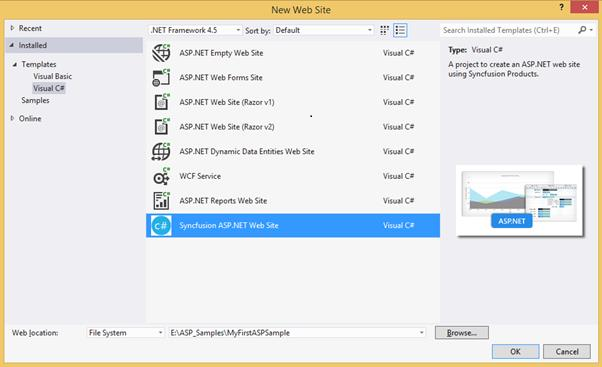
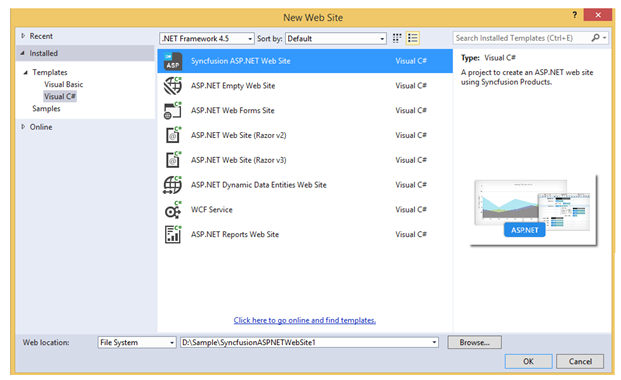
Getting Started document has been updated in ASP.NET framework

diff --git a/aspnet/Getting-Started.md b/aspnet/Getting-Started.md
@@ -18,17 +18,17 @@ This section describes how to configure the Syncfusion ASP.NET components into t
 The procedure that are followed in manual integration process is entirely automated, when we create an application using Syncfusion Project template.
 
 ## Using Syncfusion Project Template
-For creating new ASP.NET Website, you can use the Syncfusion’s Visual Studio project templates. Here, you will see how to add the `DatePicker` control into the ASP.NET Website selecting from the “New Web Site” pop-up,
 
-* Start the Visual Studio and select File -> New -> Website. You can now see the built-in `Syncfusion ASP.NET Website` template in the "New Web Site" pop-up as shown below
+Syncfusion provides the Visual Studio Project Template support for ASP.NET (EJWEB) components, which will automatically include all the Syncfusion ASP.NET control’s client and server side dependencies are preconfigured and copied to it appropriate folders. Below are listed the steps for you to follow when creating an ASP.NET web site.
+
+Step 1 Select File > New > Web Site. <BR>
+Step 2 Choose Templates > Visual C# > Syncfusion ASP.NET Web Site <BR>
+Step 3 Set a name and location for the project.<BR>
+Step 4 Click OK to create the project. <BR>
 
 ![](Getting-Started_images/Getting-Started_img1.png)
-Visual Studio 2012 - New Web Site Pop-up
-{:.caption}
 
-* Type the application name and click `OK`. This will create a new Web Site with all the Syncfusion ASP.NET control’s client and server side dependencies are preconfigured and copied to it appropriate folders
-
-* Now you can add your required controls in the ASPX Page. The code for adding `DatePicker` control within the "Default.aspx" file is follows
+Add your required controls in the ASPX Page. Let see the code for adding DatePicker control within the “Default.aspx” file as follows.
 
 {% highlight html %}
 
@@ -39,14 +39,11 @@ Visual Studio 2012 - New Web Site Pop-up
 * Another way of adding control into the Default.aspx page is by making use of the Toolbox option present in the Visual Studio. You need to just drag the required control from the toolbox and then drop it into the Content section of the Default.aspx page and the required control code automatically gets generated
 
 ![](Getting-Started_images/Getting-Started_img2.png)
-Toolbox
-{:.caption}
+
 
 * Finally build and run the project by pressing F5, so that you can now see the output similar to the below screenshot in your web browser.
 
 ![](Getting-Started_images/Getting-Started_img13.png)
-DatePicker control displayed in web browser
-{:.caption}
 
 N> The Script Manager is mandatory in order to place our control initialization script in the page.<BR>
 Ensure whether the “ScriptManager” is added in the “Site.Master” or else add the “ScriptManager” to your web page. <BR>
@@ -389,19 +386,29 @@ jspm update syncfusion=github:syncfusion/JavaScript-Widgets
 
 
 ## Manual Integration of Syncfusion ASP.NET controls into the new/existing Application
-This topic mainly focus on how to integrate the Syncfusion ASP.NET controls manually into the newly created/existing ASP.NET Web Forms application.
 
-### Creating ASP.NET Web Application
-Start the Visual Studio. Create a new Web Forms application by using File -> New -> Project and run the application by pressing Ctrl+F5, which shows something similar to the following screenshot in your web browser,
+This topic mainly focusses on how to integrate the Syncfusion ASP.NET controls manually into the newly created/existing ASP.NET Web Forms application. Let’s look onto the procedure for making use of any of our ASP.NET controls within the ASP.NET Web application. 
+
+### Creation of First ASP.NET Web Application
+
+Follow the below steps to create a normal ASP.NET Web application
+
+1. Start the Visual Studio. Create a new Web Forms application by selecting File -> New -> Project and save it with a meaningful name as shown below,
+
+![](Getting-Started_images/Getting-Started_img22.png)
+
+2. ASP.NET Web application is created successfully. Now you can build and run your application by pressing Ctrl+F5, which shows something similar to the following screenshot in your web browser,
 
 ![](Getting-Started_images/Getting-Started_img14.png)
-Empty application when run on the web browser
-{:.caption}
+
+You have successfully created your first simple Asp.NET web application and now it’s time to add some other essential things to your application that allows you to make use of our Syncfusion ASP.NET controls into it.
 
 ### For Existing Applications
-If you want to add our Syncfusion ASP.NET controls into your existing application, open your application and proceed with the following steps.
+
+If you want to add our Syncfusion ASP.NET controls into your existing application, then you just need to open your existing application and proceed with the following steps.
 
 ### Adding required CSS files
+
 To render the Syncfusion ASP.NET controls with its unique style and theme, it is necessary to refer the required CSS files into your application. You need to copy all the required CSS files into your application from the following location,
 
 N> <installed location>\Syncfusion\Essential Studio\13.1.0.21\JavaScript\assets\css\web
@@ -411,14 +418,14 @@ N> C:\Program Files (x86)\Syncfusion\Essential Studio\13.1.0.21\JavaScript\asset
 When you navigate to the above location, you can find the files shown in the below image, which you need to copy entirely and paste it into your root application. 
 
 ![](Getting-Started_images/Getting-Started_img15.png)
-CSS files to be copied from the installed location
-{:.caption}
 
 Before pasting it into your application, create a folder structure with names ej/web within the Content folder of your application and place all the copied files into it as shown below,
 
+
 ![](Getting-Started_images/Getting-Started_img16.png)
-Solution Explorer - Project with CSS files copied into the Content folder
+Solution Explorer - Project with css files copied into the Content folder
 {:.caption}
+
 
 N> The common-images folder is needed to be copied into your application mandatorily, as it includes all the common font icons and other images required for the control to render.
 
@@ -430,14 +437,17 @@ Once the CSS files are added in your application, include the reference to "ej.w
 
 {% endhighlight %}
 
-### Adding required Script files
-Essential ASP.NET controls has the following list of external JavaScript dependencies. 
+### Adding the required JavaScript files
 
-* jQuery-1.10.2.min.js
-* jsrender.min.js
+Adding the required JavaScript files into your application plays an important role, without which the Syncfusion controls cannot be created. It requires the following mandatory common script files,
 
+*	jquery-1.10.2.min.js 
+* jquery.easing.1.3.min.js
+*	jquery.globalize.min.js
+*	jsrender.min.js
 
-Apart from the above external dependencies, each control has its own list of internal dependencies. This dependencies are listed within each component documentation. For the getting started, you can use “ej.web.all.min.js” file which encapsulates all the `ej` controls and frameworks in one single file. Also, Essential ASP.NET controls has additional script dependency to “ej.webform.min.js” which is responsible for raising server-side events.
+Apart from the above common scripts, it is also necessary to refer the ej.web.all.min.js file in your application, which plays a major role in control creation. It also requires reference to the ej.webform.min.js file in your application, as it is responsible for the server-side event functionalities of the ASP.NET controls.
+
 The dependencies are available in the following locations of your machine. Please copy these files from location given
 
 <table>
@@ -482,56 +492,170 @@ Add the below script references in the Site.Master file within the head section,
 
 N> As like the above mentioned order, the script file of ej.webform.min.js should be referred at last whether we use individual script reference or ej.web.all.min.js script reference.
 
-### Assembly Reference
+### CDN Link reference
+
+If you want to refer the cdn links instead of the direct script and css references in your application, then you need to make use of the below references in the Site.Master file,
+
+{% highlight html %}
+
+<head>
+
+    <meta charset="utf-8" />
+
+    <title><%: Page.Title %> - My ASP.NET Application</title>
+
+    <link href="http://cdn.syncfusion.com/13.1.0.21/js/web/flat-azure/ej.web.all.min.css" rel="stylesheet" />
+
+    <script src="http://cdn.syncfusion.com/js/assets/external/jquery-1.10.2.min.js"></script>
+
+    <script src="http://cdn.syncfusion.com/js/assets/external/jquery.easing.1.3.min.js"></script>
+
+    <script src="http://cdn.syncfusion.com/js/assets/external/jquery.globalize.min.js"></script>
+
+    <script src="http://cdn.syncfusion.com/js/assets/external/jsrender.min.js"></script>
+
+    <script src="http://cdn.syncfusion.com/13.1.0.21/js/web/ej.web.all.min.js"></script> 
+
+    <script src="http://cdn.syncfusion.com/13.1.0.21/js/web/ej.webform.min.js"></script>
+
+</head>    
+
+{% endhighlight %}
+
+### Adding Syncfusion ASP.NET control
+
+Here, we will see how to add the DatePicker control into the newly created Syncfusion ASP.NET Web Application. To add the control, we can use either of the following two ways
+
+i.	Drag and drop the control from the toolbox <BR>
+ii.	Manually using the control code. <BR>
+
+#### Drag and drop the control from the toolbox
+
+1.	An easy way of adding control into the Default.aspx page is by making use of the Toolbox option present in the Visual Studio. When you install Essential Studio Package or ASP.NET setup in your machine, all the available ASP.NET controls are automatically configured into the Visual Studio Toolbox. 
+
+You just need to drag the required control from the toolbox and then drop it into the Content section of the Default.aspx page, so that the required control code gets generated automatically and also the required dependent assembly get registered automatically.
+
+![](Getting-Started_images/Getting-Started_img23.png)
+Toolbox
+{:.caption}
+
+2.	When you drag and drop the DatePicker control into the Default.aspx page, the page looks as the image shown below with the automatic control code generated and the required assemblies registered,
+
+![](Getting-Started_images/Getting-Started_img24.png)
+Default.aspx page with DatePicker control code and assembly registered for it at the top
+{:.caption}
+
+#### Manually using the control code
+
+If you want to add the control code manually, follow the below steps.
+
+##### Assembly Reference
+
 Refer the following assemblies in your newly created ASP.NET application, which allows you to use any of the Syncfusion ASP.NET controls within it.
 
 * Syncfusion.EJ
 * Syncfusion.EJ.Web
 
-Once you have installed the Essential Studio package in your system, the Syncfusion assemblies are automatically registered in the GAC. You can easily add the reference to your application using `Project -> Add Reference` and selecting the mentioned Assemblies in dialog shown
+The reference to the Syncfusion assemblies can be added to your application in either of the following ways, 
+-	Referring from GAC
+-	Referring from the installed location
 
-![](Getting-Started_images/Getting-Started_img18.png)
+##### Referring from GAC
+
+1.	Once you have installed the Essential Studio package in your system, the Syncfusion assemblies are automatically registered in the GAC. You can easily add the reference assemblies to your project by choosing Add Reference option as shown below,
+
+![](Getting-Started_images/Getting-Started_img25.png)
+Right click on the References --> choose Add Reference option
+{:.caption}
+
+2.	Now the Reference Manager pop-up will appear on the screen. In that pop-up, select the required assemblies from the Extensions tab as below, by choosing the appropriate versions (13.1450.0.21). The version to be chosen for the reference assemblies is based on the framework used in the application.
+
+![](Getting-Started_images/Getting-Started_img26.png)
 Reference Manager Pop-up
 {:.caption}
 
-### Adding Control to the Page
-When you install Essential Studio or ASP.NET setup in your machine, all the available ASP.NET controls are automatically configured into the Visual Studio Toolbox. 
-You just need to drag the required control from the toolbox and then drop it into the Content section of the Default.aspx page, so that the required control code gets generated automatically.
+##### Referring from the installed location
 
-![](Getting-Started_images/Getting-Started_img19.png)
-Toolbox
+1.	Add the reference assemblies to your project by choosing Add Reference option as shown below,
+
+![](Getting-Started_images/Getting-Started_img25.png)
+Right click on the References --> choose Add Reference option
 {:.caption}
 
-![](Getting-Started_images/Getting-Started_img20.png)
-Default.aspx page with DatePicker control code and assembly registered for it at the top
+2.	Now the Reference Manager pop-up will appear on the screen. Select the Browse tab in it and navigate to the installed location of the Syncfusion Essential Studio package in your system. (As depicted in the below image.)
+
+N> <installed location>\Syncfusion\Essential Studio\13.1.0.21\precompiledassemblies\13.1.0.21
+
+N> For example, If you have installed the Essential Studio package within C:\Program Files (x86), then navigate to the below location,
+
+N> C:\Program Files (x86)\Syncfusion\Essential Studio\13.1.0.21\precompiledassemblies\13.1.0.21
+
+![](Getting-Started_images/Getting-Started_img27.png)
+Reference Manager Pop-up with Browse button clicked
 {:.caption}
 
-### Registering Assemblies within the Web.config file
-In your application’s web.config file, add the below assembly information within the &lt;assemblies&gt; tag and &lt;controls&gt; tag.
+N> In the above image, the folders 3.5, 4.0, 4.5, 4.5.1 denotes the .NET framework version. Based on the framework version used in your application, you can choose assemblies from the appropriate folders. The Syncfusion.EJ.Web and other core assemblies like Syncfusion.Core, Syncfusion.EJ are available within these folders.
+
+3.	Add the Sycfusion.EJ, Syncfusion.EJ.Web and Syncfusion.Core assemblies to your application from the below specified location,
+
+N> <installed location>\Syncfusion\Essential Studio\13.1.0.21\precompiledassemblies\13.1.0.21\4.5 <BR>
+For example, If you have installed the Essential Studio package within C:\Program Files (x86), then navigate to the below location, <BR>
+C:\Program Files (x86)\Syncfusion\Essential Studio\13.1.0.21\precompiledassemblies\13.1.0.21\4.5
+
+![](Getting-Started_images/Getting-Started_img28.png)
+Reference Manager Pop-up with assemblies selected
+{:.caption}
+
+4.	Once the assembly selection is done, click OK to add the selected references to your project. You can view the assembly references added to your application, in the solution explorer as shown below,
+
+![](Getting-Started_images/Getting-Started_img29.png)
+Selected Assemblies added to the Project reference
+{:.caption}
+
+##### Registering Syncfusion Assemblies within the Web.config
+
+In your application’s web.config file, add the below assembly information within the <assemblies> tag.
 
 {% highlight xml %}
+
 <system.web>
-  <compilation debug="true" targetFramework="4.5">
-    <assemblies>
-	  <add assembly="Syncfusion.EJ, Version=13.1450.0.21, Culture=neutral, PublicKeyToken=3d67ed1f87d44c89" />
-	  <add assembly="Syncfusion.EJ.Web, Version=13.1450.0.21, Culture=neutral, PublicKeyToken=3d67ed1f87d44c89" />
-	</assemblies>
-  </compilation>
-  <pages>
-  <controls>
-      <add namespace="Syncfusion.JavaScript.Web" assembly="Syncfusion.EJ.Web, Version=13.1450.0.21, Culture=neutral, PublicKeyToken=3d67ed1f87d44c89" tagPrefix="ej"/>
-      <add namespace="Syncfusion.JavaScript.Web" assembly="Syncfusion.EJ, Version=13.1450.0.21, Culture=neutral, PublicKeyToken=3d67ed1f87d44c89" tagPrefix="ej"/>
-      <add namespace="Syncfusion.JavaScript.Models" assembly="Syncfusion.EJ, Version=13.1450.0.21, Culture=neutral, PublicKeyToken=3d67ed1f87d44c89" tagPrefix="ej"/>
-  </controls>
- </pages>
+    <compilation debug="true" targetFramework="4.5">
+          <assemblies>
+
+            <add assembly="Syncfusion.EJ, Version=13.1450.0.21, Culture=neutral, PublicKeyToken=3d67ed1f87d44c89" />
+
+            <add assembly="Syncfusion.EJ.Web, Version=13.1450.0.21, Culture=neutral, PublicKeyToken=3d67ed1f87d44c89" />
+
+          </assemblies>
+    </compilation>
+    <authentication mode="Forms">
+   …
 </system.web>
+
 {% endhighlight %}
 
-Finally build and run the project by pressing F5, so that you can now see the output similar to the below screenshot in your web browser,
+1.	Add the below DatePicker code within the Default.aspx file, as shown in the image following it,
+
+{% highlight html %}
+
+   <ej:DatePicker ID="DatePicker" runat="server"></ej:DatePicker>
+
+{% endhighlight %}
+
+N> Add the DatePicker code within the Content section, by removing the unwanted code within it.
+
+2.	Also register the required assemblies within the Default.aspx page at the top where you are using the control as shown below,
+
+![](Getting-Started_images/Getting-Started_img30.png)
+
+3. Finally build and run the project by pressing F5, so that you can now see the output similar to the below screenshot in your web browser,
+
 
 ![](Getting-Started_images/Getting-Started_img21.png)
 DatePicker control displaying on the web browser
 {:.caption}
+
+Thus the DatePicker control is rendered successfully with its default appearance. You can then use its various properties to set its value and also make use of its available events to trigger when necessary.
 
 N> The Script Manager is mandatory in order to place our control initialization script in the page.<BR>
 Ensure whether the “ScriptManager” is added in the “Site.Master” or else add the “ScriptManager” to your web page. <BR>
